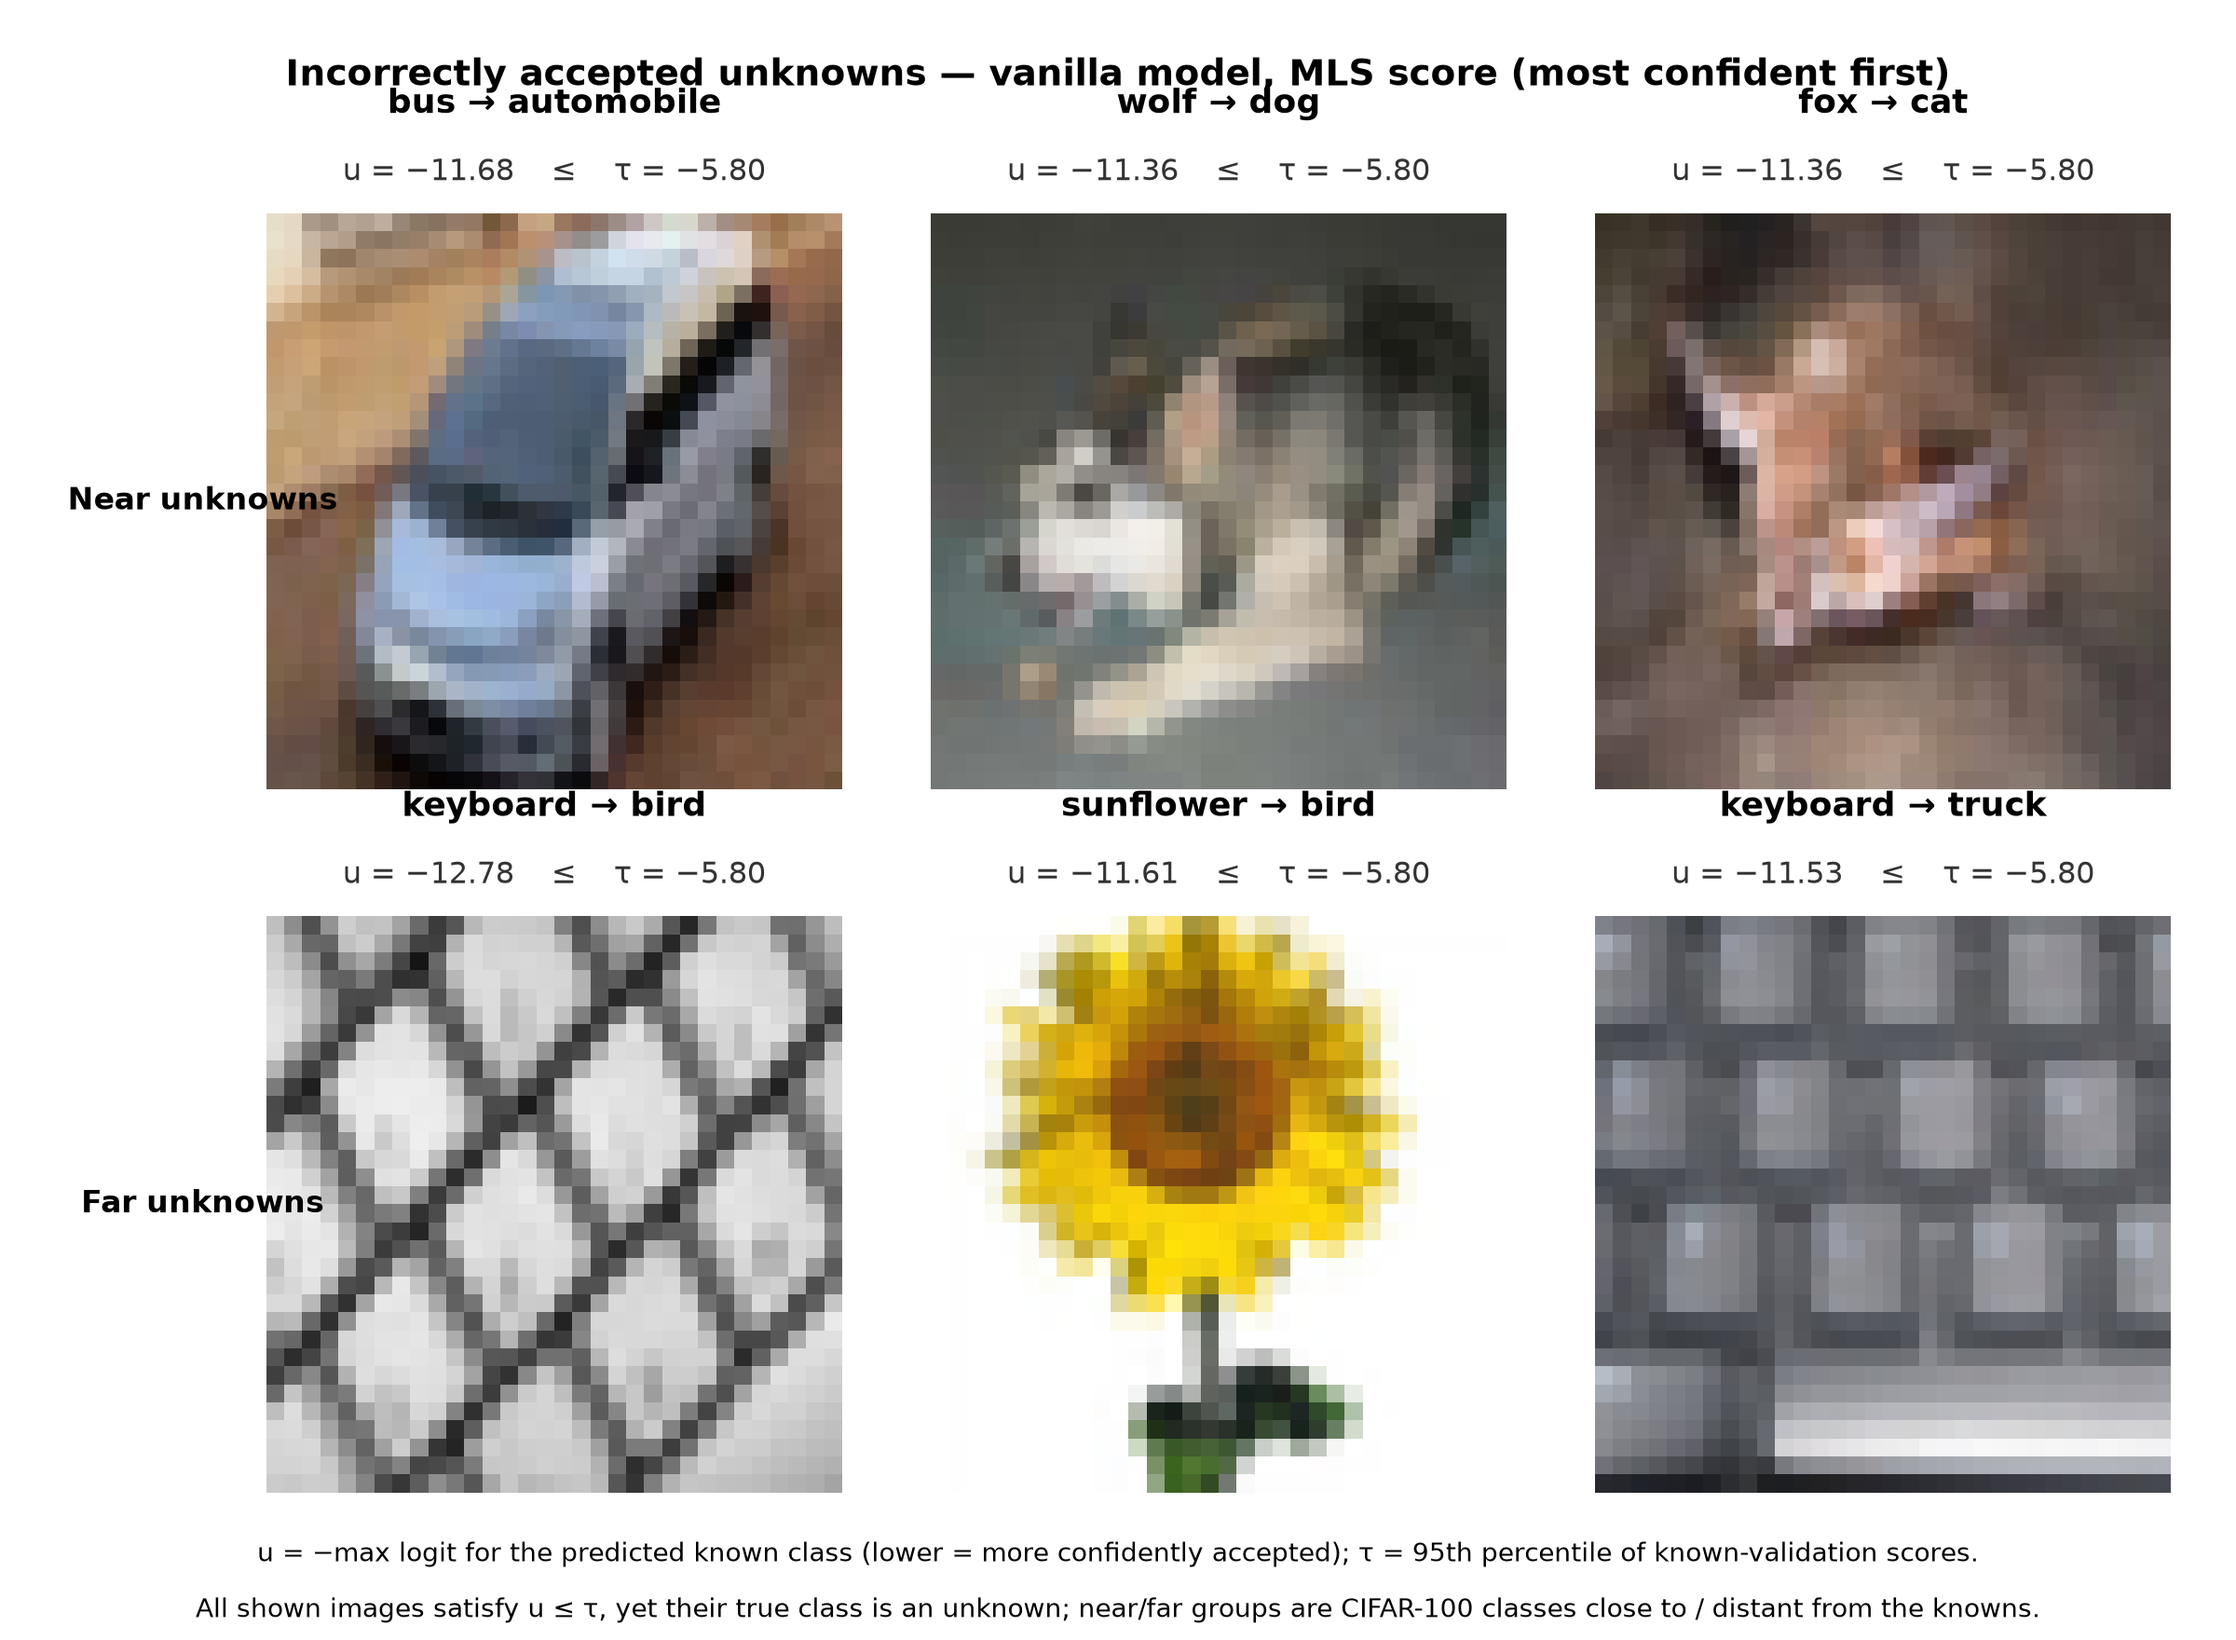
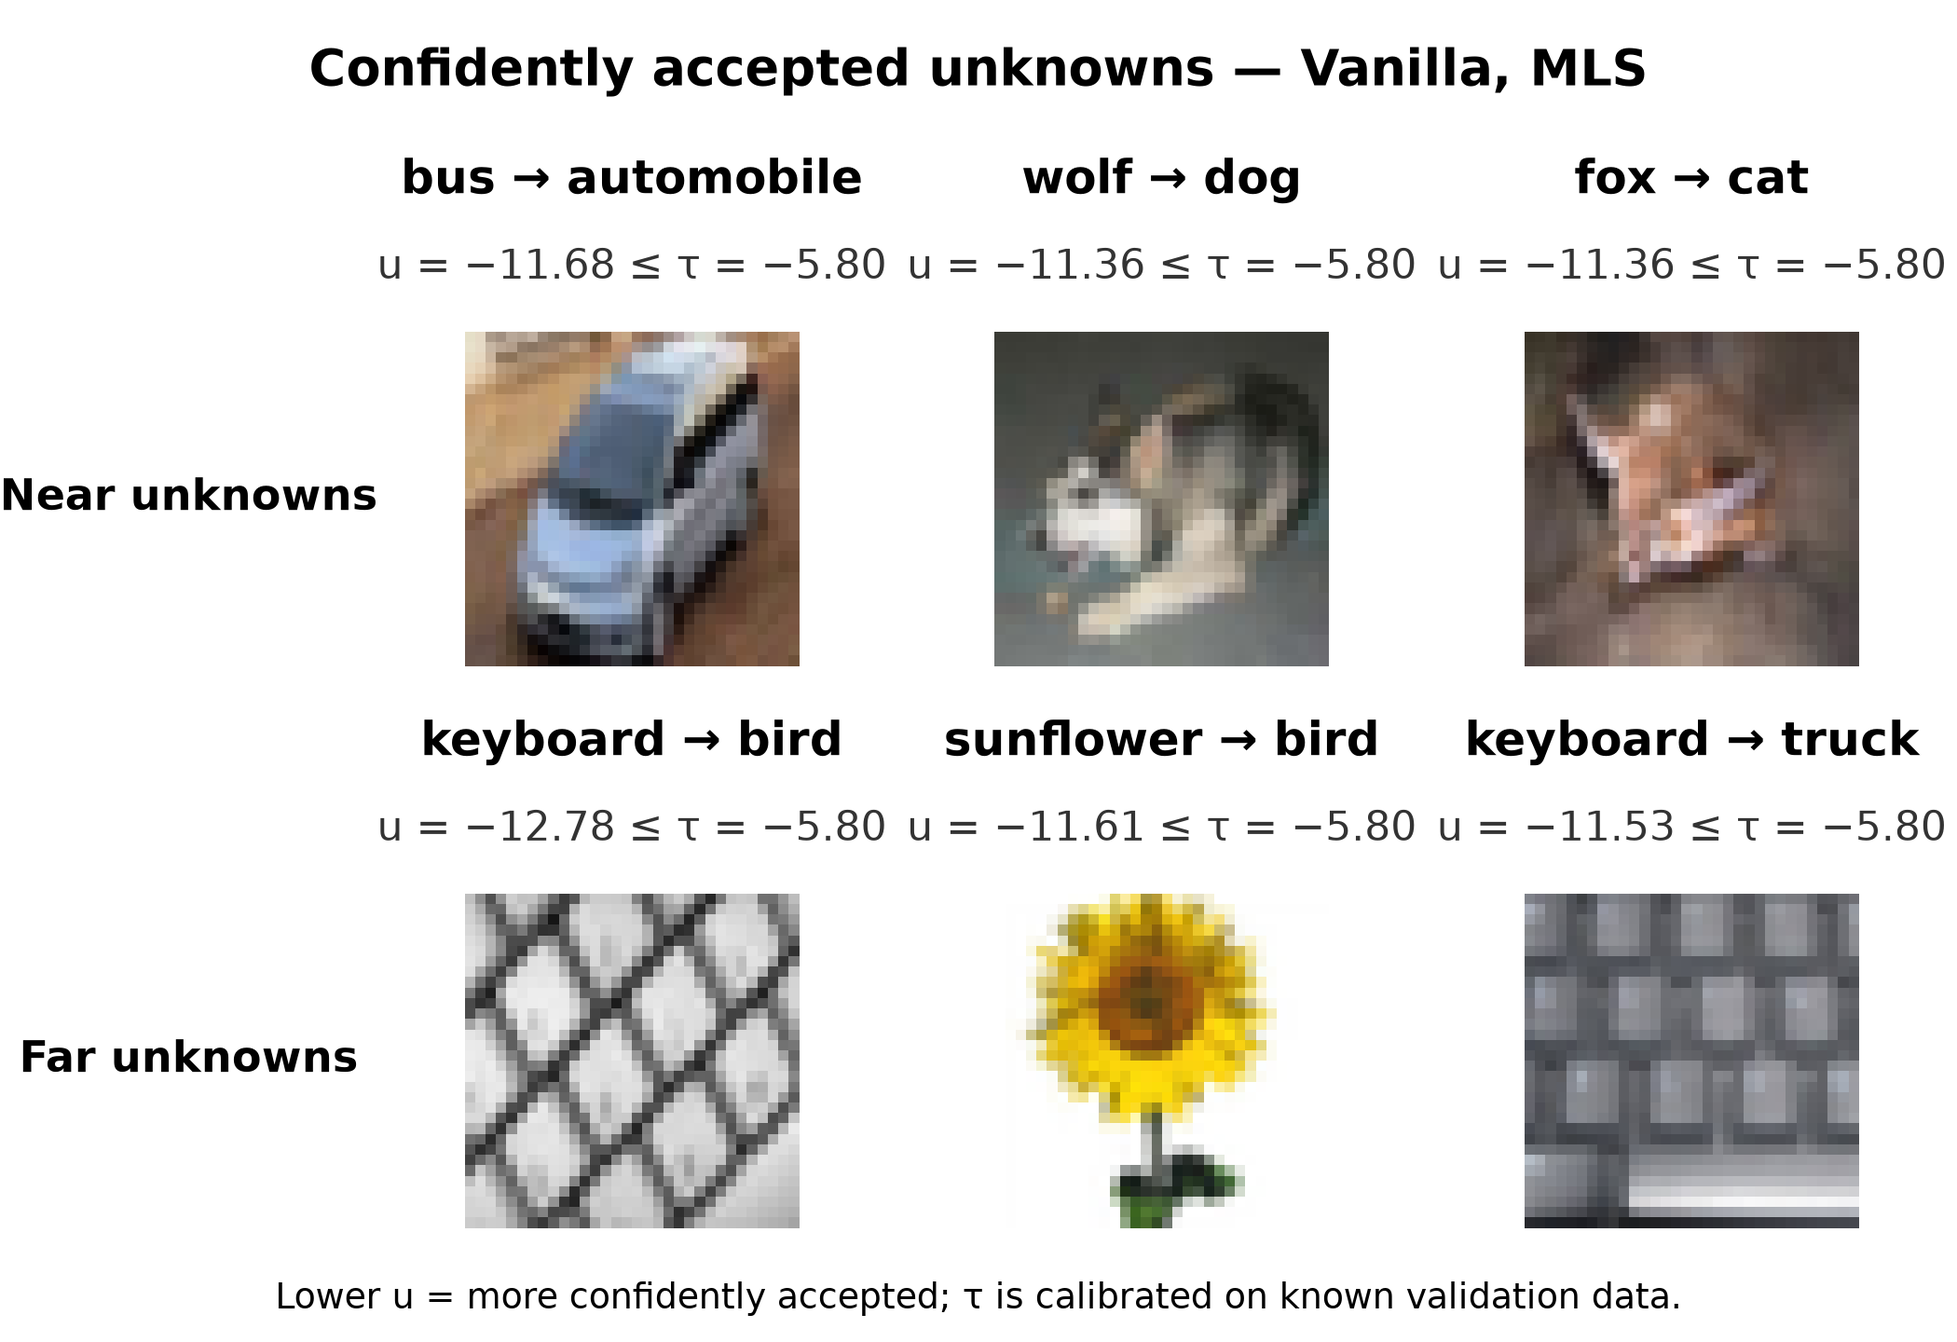
Failure gallery layout rebuild: dedicated row-label column, text bands, collision-checked labels

diff --git a/scripts/make_doc_images.py b/scripts/make_doc_images.py
@@ -568,7 +568,85 @@ def osr_metric_bars(cache_dir: Path, out: Path) -> None:
     save(fig, out / "posthoc_score_bars.png")
 
 
+def _verify_failure_gallery(figure, image_axes, label_axes, text_axes, expected_texts,
+                            tau_text) -> None:
+    """Programmatic pre-save checks for the failure gallery (raises on failure)."""
+    figure.canvas.draw()
+    renderer = figure.canvas.get_renderer()
+    width, height = figure.canvas.get_width_height()
+    problems = []
+
+    def extent(artist):
+        return artist.get_window_extent(renderer=renderer)
+
+    # 1. no text may be clipped outside the canvas
+    for text in figure.findobj(match=plt.Text):
+        box = extent(text)
+        if box.x0 < -1 or box.y0 < -1 or box.x1 > width + 1 or box.y1 > height + 1:
+            problems.append(f"text outside canvas: {text.get_text()!r}")
+
+    # 2. row labels must not overlap any image axes
+    for label_axis in label_axes:
+        label_box = extent(label_axis)
+        for image_axis in image_axes:
+            image_box = extent(image_axis)
+            overlap_x = min(label_box.x1, image_box.x1) - max(label_box.x0, image_box.x0)
+            overlap_y = min(label_box.y1, image_box.y1) - max(label_box.y0, image_box.y0)
+            if overlap_x > 0 and overlap_y > 0:
+                problems.append("row label overlaps an image axes")
+
+    # 3. row labels vertically centred on their image row
+    for row, label_axis in enumerate(label_axes):
+        row_axes = image_axes[3 * row:3 * row + 3]
+        row_centre = sum(extent(axis).y0 + extent(axis).height / 2 for axis in row_axes) / 3
+        label_centre = extent(label_axis).y0 + extent(label_axis).height / 2
+        if abs(row_centre - label_centre) > 2:
+            problems.append(f"row label {row} is not centred on its image row")
+
+    # 4. near examples in the top row, far examples below
+    near_centre = sum(extent(axis).y0 for axis in image_axes[:3]) / 3
+    far_centre = sum(extent(axis).y0 for axis in image_axes[3:]) / 3
+    if near_centre <= far_centre:
+        problems.append("near examples are not in the top row")
+
+    # 5. displayed labels match the displayed samples; tau appears in every score
+    actual = [tuple(text.get_text() for text in axis.texts) for axis in text_axes]
+    if actual != [tuple(pair) for pair in expected_texts]:
+        problems.append("panel labels do not match the displayed samples")
+    for _, score_text in expected_texts:
+        if tau_text not in score_text:
+            problems.append(f"score line missing the calibrated tau: {score_text!r}")
+
+    # 6. all image panels have identical dimensions
+    boxes = [extent(axis) for axis in image_axes]
+    for box in boxes[1:]:
+        if abs(box.width - boxes[0].width) > 0.5 or abs(box.height - boxes[0].height) > 0.5:
+            problems.append("image panels do not have identical dimensions")
+
+    # 7. panel texts must not collide with each other
+    panel_texts = [text for axis in text_axes for text in axis.texts]
+    for i, first in enumerate(panel_texts):
+        for second in panel_texts[i + 1:]:
+            box_a, box_b = extent(first), extent(second)
+            overlap_x = min(box_a.x1, box_b.x1) - max(box_a.x0, box_b.x0)
+            overlap_y = min(box_a.y1, box_b.y1) - max(box_a.y0, box_b.y0)
+            if overlap_x > 0 and overlap_y > 0:
+                problems.append(f"panel texts overlap: {first.get_text()!r}")
+
+    if problems:
+        raise SystemExit("failure gallery layout check failed:\n  " + "\n  ".join(problems))
+    print(f"failure gallery layout checks: OK ({len(image_axes)} image panels, "
+          f"{len(label_axes)} row labels)")
+
+
 def failure_gallery(cache_dir: Path, data_root: Path, out: Path) -> None:
+    """Accepted-unknown gallery, 2x3 (near unknowns top, far unknowns bottom).
+
+    Visualization only: samples, predictions, scores, threshold and ordering are
+    identical to the evaluation. The layout uses a dedicated row-label column and
+    a text band above each image row, so class titles and score lines can never
+    resize or overlap the images.
+    """
     path = cache_dir / "t4_vanilla.npz"
     if not path.exists():
         print("skip failure gallery: cache missing")
@@ -581,51 +659,69 @@ def failure_gallery(cache_dir: Path, data_root: Path, out: Path) -> None:
     with np.load(path, allow_pickle=True) as data:
         cache = {key: data[key] for key in data.files}
     known = int(cache["num_known"])
-    tau = threshold_at_percentile(mls(cache["logits_val"][:, :known]), 95.0)
+    tau = float(threshold_at_percentile(mls(cache["logits_val"][:, :known]), 95.0))
+
     def signed(value: float) -> str:
         return ("−" if value < 0 else "") + f"{abs(value):.2f}"
 
-    fig, axes = plt.subplots(2, 3, figsize=(12, 8.8))
-    fig.subplots_adjust(left=0.105, right=0.985, top=0.87, bottom=0.09,
-                        wspace=0.04, hspace=0.22)
-    for row, group in enumerate(["near", "far"]):
+    tau_text = f"τ = {signed(tau)}"
+    groups = [("near", "Near unknowns"), ("far", "Far unknowns")]
+
+    # explicit margins via GridSpec (never tight_layout): one narrow label column
+    # and a text band above each image row
+    figure = plt.figure(figsize=(7.0, 4.8))
+    grid = figure.add_gridspec(
+        4, 4, width_ratios=[0.6, 1.0, 1.0, 1.0], height_ratios=[0.50, 1.0, 0.50, 1.0],
+        left=0.03, right=0.975, top=0.90, bottom=0.085, wspace=0.25, hspace=0.12)
+
+    image_axes, label_axes, text_axes, expected_texts = [], [], [], []
+    for row, (group, row_label) in enumerate(groups):
         dataset = Cifar100Unknowns(str(data_root), group, None)
         logits = cache[f"logits_{group}"][:, :known]
         unknownness = mls(logits)
         accepted = np.where(unknownness <= tau)[0]
         order = accepted[np.argsort(unknownness[accepted])][:3]
+
+        label_axis = figure.add_subplot(grid[2 * row + 1, 0])
+        label_axis.axis("off")
+        label_axis.text(0.5, 0.5, row_label, ha="center", va="center",
+                        fontsize=11, fontweight="bold", rotation=0)
+        label_axes.append(label_axis)
+
         for column, position in enumerate(order):
             image, fine_label = dataset.base[dataset.indices[position]]
             predicted = int(logits[position].argmax())
-            fine_name = dataset.label_names[fine_label].replace("_", " ")
-            axis = axes[row, column]
+            class_text = (f"{dataset.label_names[fine_label].replace('_', ' ')}"
+                          f" → {CIFAR10_CLASSES[predicted]}")
+            score_text = f"u = {signed(float(unknownness[position]))} ≤ {tau_text}"
+
+            text_axis = figure.add_subplot(grid[2 * row, column + 1])
+            text_axis.axis("off")
+            text_axis.text(0.5, 0.72, class_text, ha="center", va="center",
+                           fontsize=12, fontweight="bold")
+            text_axis.text(0.5, 0.20, score_text, ha="center", va="center",
+                           fontsize=10.5, color="#333333")
+            text_axes.append(text_axis)
+            expected_texts.append((class_text, score_text))
+
+            axis = figure.add_subplot(grid[2 * row + 1, column + 1])
             axis.imshow(np.asarray(image))
             axis.axis("off")
-            axis.text(0.5, 1.16, f"{fine_name} → {CIFAR10_CLASSES[predicted]}",
-                      transform=axis.transAxes, ha="center", va="bottom",
-                      fontsize=13, fontweight="bold")
-            axis.text(0.5, 1.045,
-                      f"u = {signed(float(unknownness[position]))}    ≤    τ = {signed(float(tau))}",
-                      transform=axis.transAxes, ha="center", va="bottom",
-                      fontsize=11.5, color="#333333")
-    axes[0, 0].text(-0.11, 0.5, "Near unknowns", transform=axes[0, 0].transAxes,
-                    ha="center", va="center", fontsize=12, fontweight="bold")
-    axes[1, 0].text(-0.11, 0.5, "Far unknowns", transform=axes[1, 0].transAxes,
-                    ha="center", va="center", fontsize=12, fontweight="bold")
-    fig.suptitle("Incorrectly accepted unknowns — vanilla model, MLS score "
-                 "(most confident first)", fontsize=14, fontweight="bold", y=0.965)
-    fig.text(0.5, 0.048,
-             "u = −max logit for the predicted known class (lower = more confidently "
-             "accepted); τ = 95th percentile of known-validation scores.",
-             ha="center", fontsize=10)
-    fig.text(0.5, 0.014,
-             "All shown images satisfy u ≤ τ, yet their true class is an unknown; "
-             "near/far groups are CIFAR-100 classes close to / distant from the knowns.",
-             ha="center", fontsize=10)
+            image_axes.append(axis)
+
+    figure.suptitle("Confidently accepted unknowns — Vanilla, MLS",
+                    fontsize=13, fontweight="bold", x=0.5, y=0.965)
+    figure.text(0.5, 0.025,
+                "Lower u = more confidently accepted; τ is calibrated on known "
+                "validation data.", ha="center", fontsize=9)
+
+    _verify_failure_gallery(figure, image_axes, label_axes, text_axes,
+                            expected_texts, tau_text)
+
     out_path = out / "failure_gallery.png"
     out_path.parent.mkdir(parents=True, exist_ok=True)
-    _write_with_retry(fig.savefig, out_path, dpi=200)
-    plt.close(fig)
+    _write_with_retry(figure.savefig, out_path, dpi=300)
+    plt.close(figure)
     print("wrote", out_path.relative_to(ROOT))
     copy_if(out_path, ROOT / "report" / "figures" / "task4_failure_gallery.png")
 
